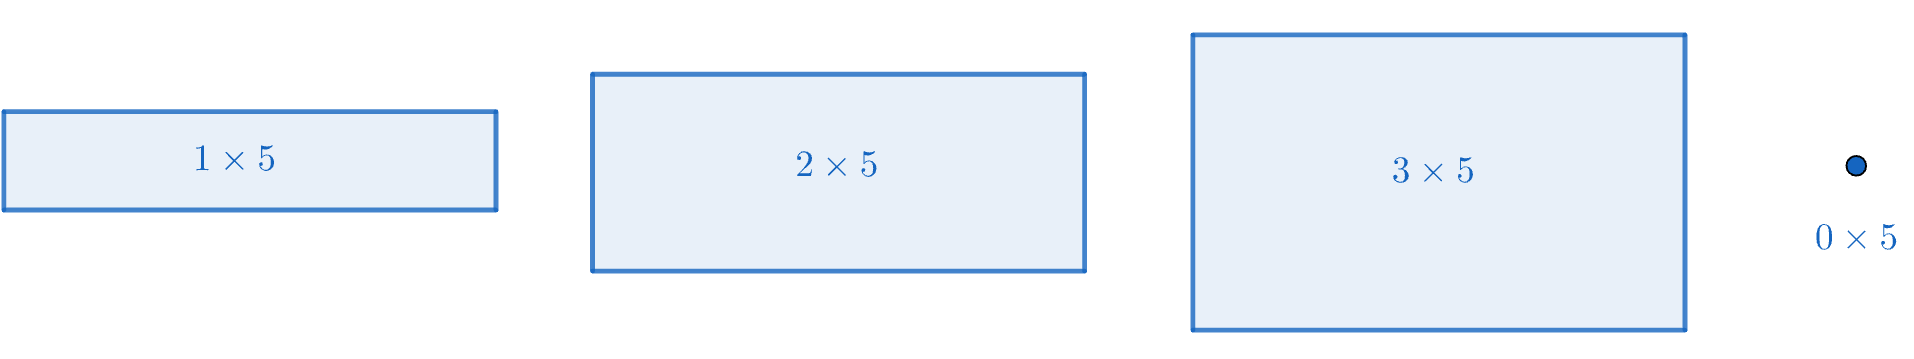
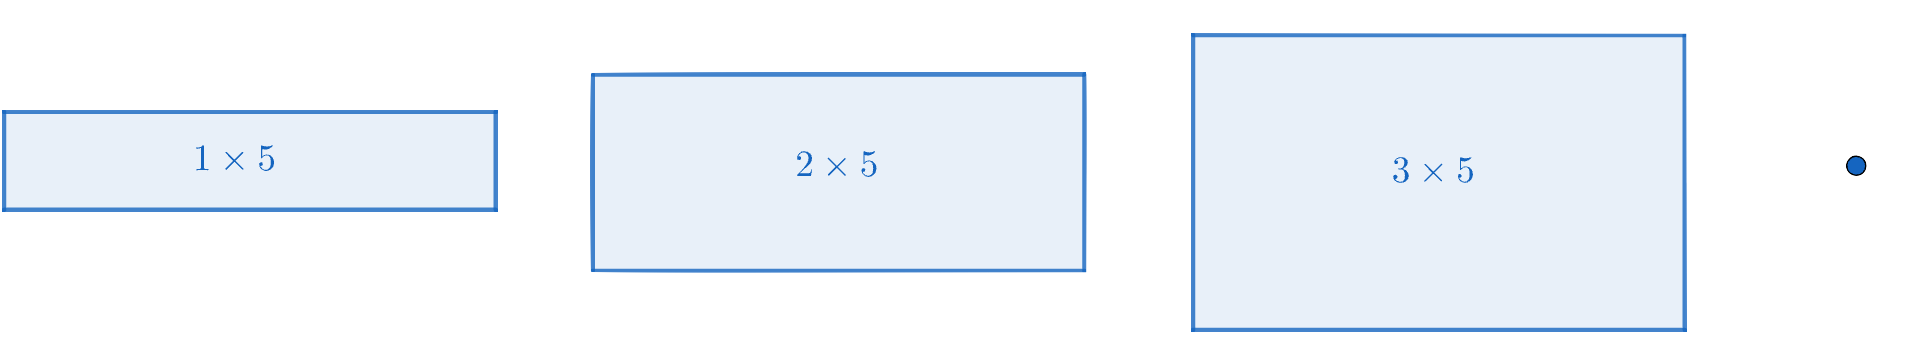
Area converges to a point when mulitplicate by zero

Changed region(s): [[0.3083, 0.7354, 0.5549, 0.766], [0.9556, 0.6435, 1.0, 0.7047], [0.3083, 0.1838, 0.4007, 0.2145]]

diff --git a/zero/zero-zh-cn.tex b/zero/zero-zh-cn.tex
@@ -73,11 +73,11 @@
 一个数\footnote{本节的数都是自然数。}加上自己越来越大。阿基米德甚至指出这个规律是一个公理，今天叫做阿基米德公理：任意非零的$m < n$，则反复$m + m + \cdots$将会超过$n$。但 0 + 0 = 0没有变大，$0 + 0 + 0 + \cdots$不会超过任何数，包括1。
 
 \item 积与面积
-各个文明在丈量土地时都独立发展出了面积的概念，并将面积和乘法联系了起来。一块长方形的土地面积就是长与宽的积。长5宽1的
+各个文明在丈量土地时都独立发展出了面积的概念，并将面积和乘法联系了起来。一块长方形的土地面积就是长与宽的积。$1 \times 5 = 5$代表宽1长5的矩形面积；$2 \times 5 = 10$代表宽2长5的矩形面积；$3 \times 5 = 15$代表宽3长5的矩形面积是……但是$0 \times 5$呢？矩形不见了，“坍缩”成了一个点\footnote{按欧几里得的定义，线段是没有宽度的，为什么矩形不是退化成了一条长5的线段？如果我们考虑长度的单位，例如厘米，则面积的单位是平方厘米。$0 \times 5 = 0$平方厘米，而线段只有长度，单位是5厘米。0平方厘米 $\neq$ 5厘米。}。
 
 \begin{figure}[htbp]
  \centering
- \includegraphics[scale=0.5]{img/rectangles}
+ \includegraphics[scale=0.6]{img/rectangles}
  \caption{$0 \times 5$把矩形“压缩”成了一个没有大小的点。}
  \label{fig:rectangle-vanish}
 \end{figure}

diff --git a/README.md b/README.md
@@ -20,7 +20,7 @@ Contents
 - Chapter 4, **Ratio and Fraction** \
   Presents how people developed fraction. Egypt fraction. How unify the arithmetic rules with fraction. Fraction as a typical example that extends numbers. Fraction, decimal, and repeating decimal.
 - Chapter 5, **Everything is number** \
-  **(a). Pythagoras**, the mathematician and philosopher in ancient Greece; the school of Pythagorean. **(b). Number, shape, and music.** Figurate numbers and some sequences. How Pythagoras developed the theory of music through numbers, hence believed _everything is number_. **(c). Number and geometry.** Straight edge and compass construction and Plato. Arithmetic in straight edge and compass construction. **(d). Axiomatic method.** Euclid and his _Elements_, its influence.
+  **(a). Pythagoras**, the mathematician and philosopher in ancient Greece; the school of Pythagorean. **(b). Number, shape, and music.** Figurate numbers and some sequences. How Pythagoras developed the theory of music through numbers, hence believed _all is number_. **(c). Number and geometry.** Straight edge and compass construction and Plato. Arithmetic in straight edge and compass construction. **(d). Axiomatic method.** Euclid and his _Elements_, its influence.
 - Chapter 6, **Irrational numbers** \
   **(a) Commensurable**, concept of common measure; The unreal legend that Hippasus discovered the irrational number. The classic construction puzzle in ancient Greece: double the cube, trisect the angle, and square the circle. **(b) Euclid's algorithm**. How ancient Greeks solve the greatest common divisor with Euclid's algorithm. Define irrational number with Euclid's algorithm. **(c) The treatment of irrational numbers**. Odoxos's treatment. $\pi$ and Archimedes; Apollonius and conics sections. **(d) $e$**. (1) Decartes and coordinate geometry; (2) Napier and logarithm; (3) The development of calculus, Newton and Leibniz; (4) Euler
 - Chapter 7, **Real numbers** \
